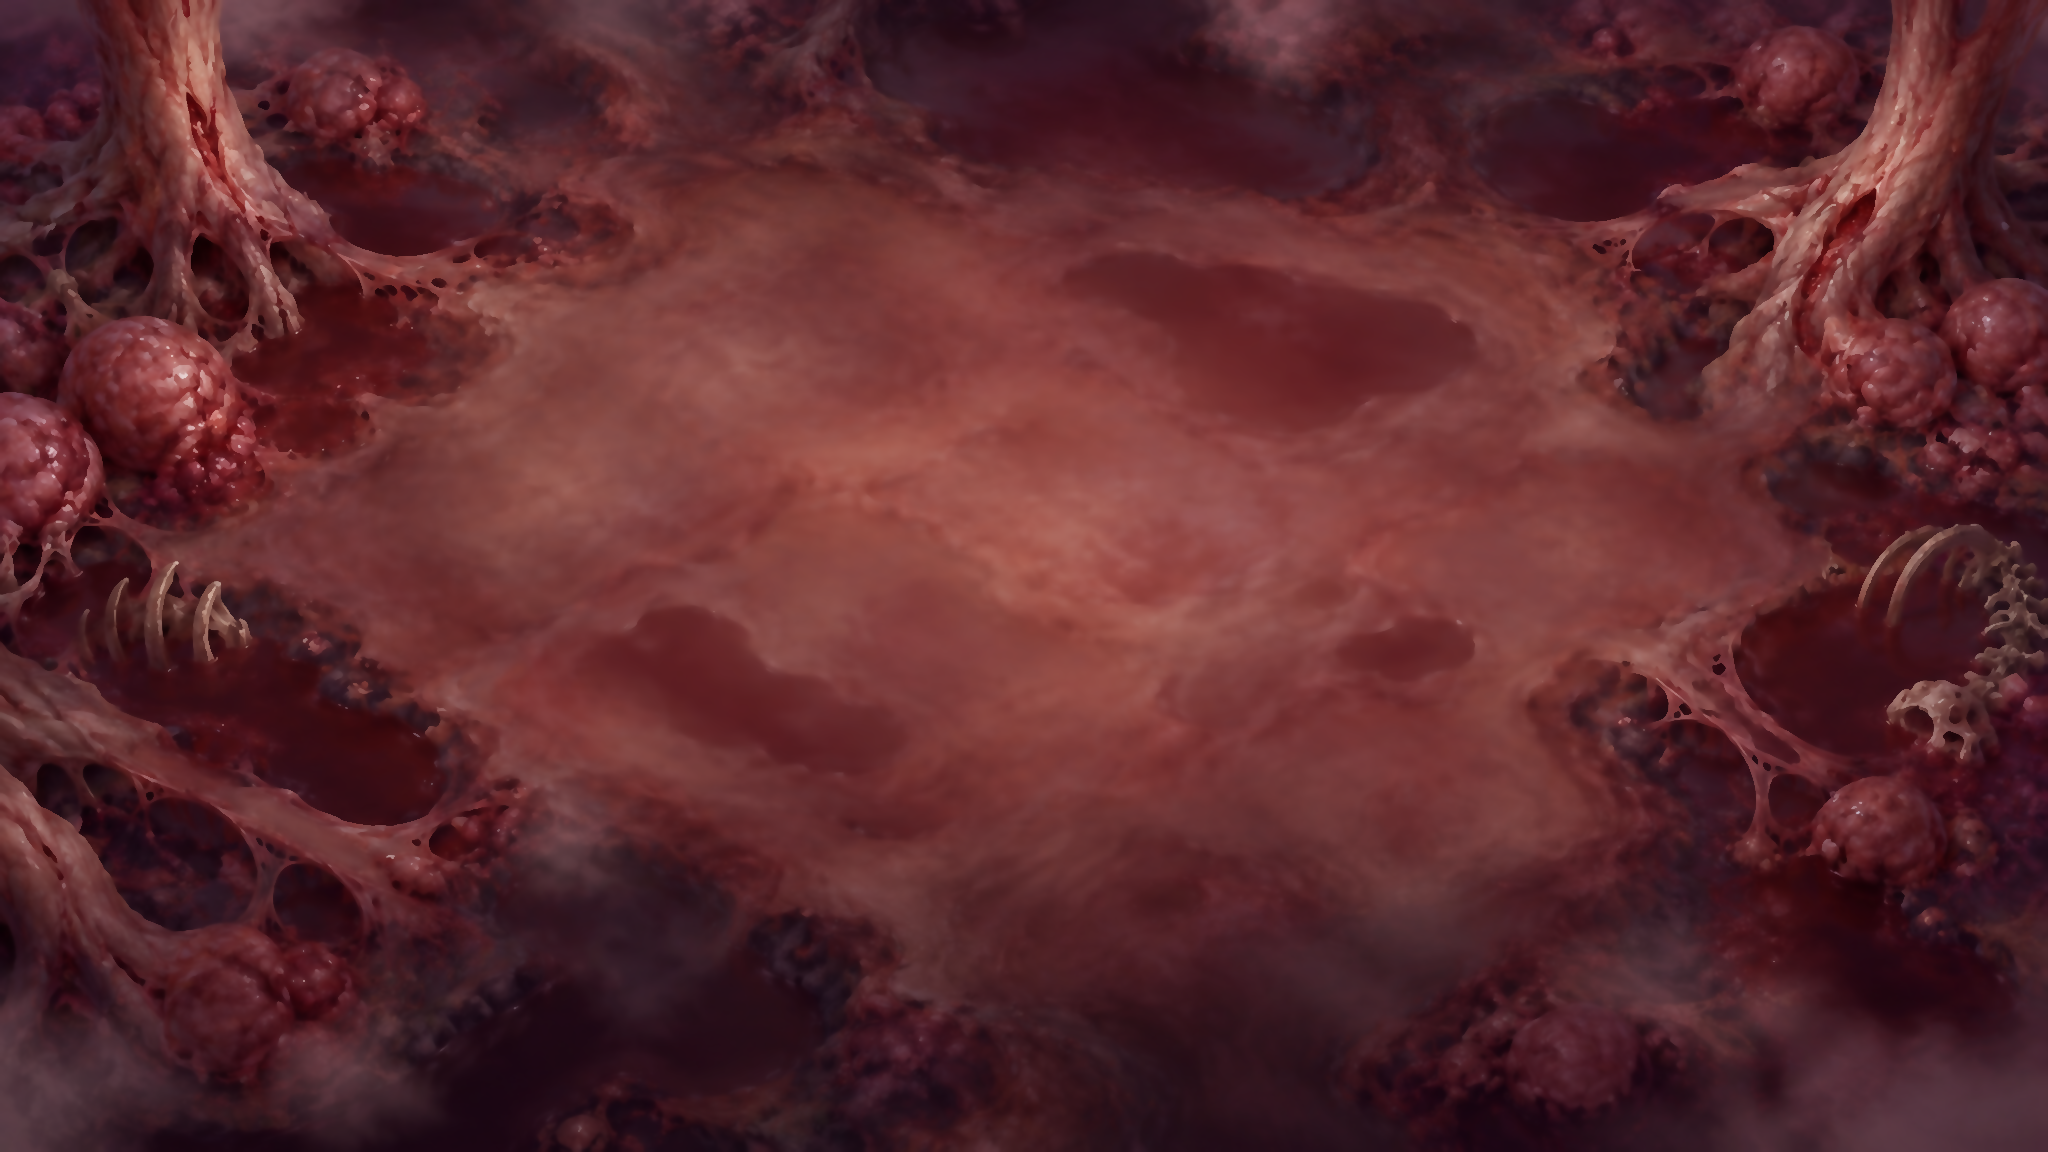
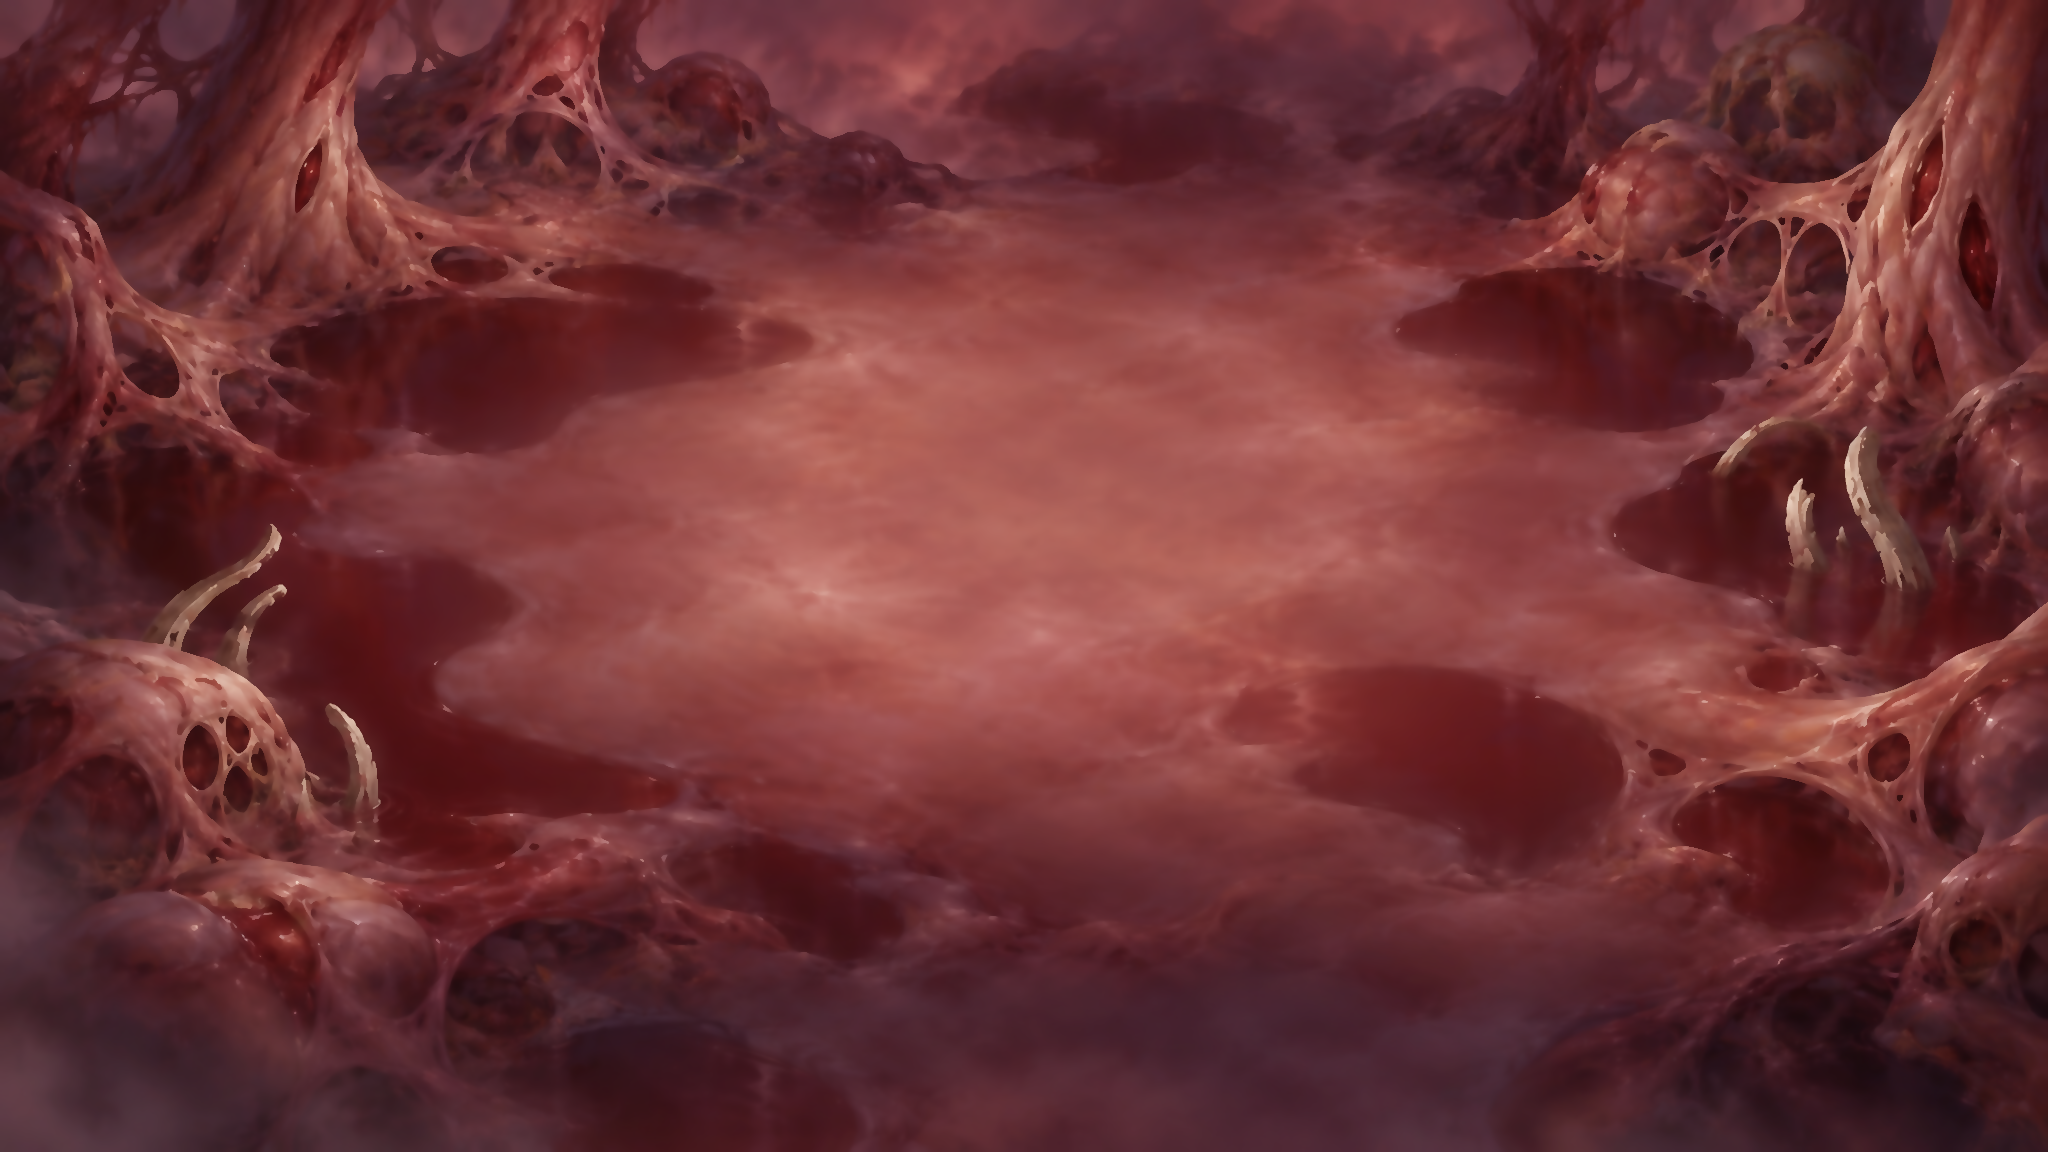
结算综合分、哥特暗黑童话风区域地图与光效
- 结算综合分（策划案 3.6）：人数×10 + （行为+条件）×10 + 信标×10 + 用时×1，越低越好；
  系数在 data/scoring.json；每关存最低分（存档 best_scores，旧档自动补齐）
- 胜利页显示综合分、新纪录 / 最佳与明细；「解锁」标题并入正文流
- 区域选关页：已通关节点名牌下显示综合分胶囊，详情状态带综合分
- 7 张区域局内底图重绘为哥特暗黑童话风（tools/region_map_post.py 降噪）
- 光效：场景压暗减半、暗角减弱、去颗粒与色差、单位光调整；格线加深色描边，障碍标志改深梅色

GUT 366 项：362 通过 / 0 失败 / 4 pending；validate_data 通过

diff --git a/AI版本/docs/CHANGELOG.md b/AI版本/docs/CHANGELOG.md
@@ -94,3 +94,4 @@
 | 2026-10-18 | tests/integration/test_levels_headless.gd、data/levels/level_02.json（verification._note_20261018） | level_02 倒置反例站位：攻击形态 (3,2)/(3,4) → (3,1)/(3,5)（承伤 (1,3) 不变），恢复「倒置会掉人」断言（撤掉上一行加的 pending） | 用户 2026-10-18：改反例站位、不调数值 | 倒置站位 WIN 13.67s、己方阵亡 2（掉人断言通过）；仍胜利 → 照旧 Q-016 pending；推荐站位无阵亡 |
 | 2026-10-18 | data/levels/level_c05.json | hints[2] 与 verification.expected_win 改为两名基础形态都「追击攻击·最远」先点祭司、再回头打守卫（hints 仍 4 条）；expected_fail 改为「基础 + 快速形态任何站位都输」；alternatives 改为「两名基础形态按最近打也能赢（约 9s）」 | 用户 2026-10-18：c05 提示文本与新推荐解一致 | validate 通过；实测两名基础形态按「最近」也 WIN 9.2s（「最远」8.4s），本关不再强制「先打最远」——待策划判断是否要收紧 |
 | 2026-10-18 | data/teaching.json（level_c03）、scripts/sim/movement.gd | 第 3 关引导：第二个信标区域（只够得着人偶·乙）改为「两具人偶中间」(10,4) / (11,3) 两格，承伤形态停在那里射程 2 同时够到甲乙；「追击」步骤改为补充说明。移动：沿信标 once / 沿路线走完时停在终点格正中（原先停在到点容差 0.05 格内，正好卡在射程边上时够不着） | 用户 2026-10-18「第三关按照教程走无法获胜」：原引导的最后一个信标在乙旁边，甲在射程外，不加追击永远打不完 | 照引导走（预填指令、不加追击）WIN；第一块区域 6 格 × 终点 2 格全部 WIN；GUT 359 通过 / 0 失败 / 4 pending；validate_data 通过 |
+| 2026-10-18 | data/scoring.json（新）、assets/themes/palette.gd、scenes/battle/battle_root.tscn、scripts/battle/unit_view.gd | **结算综合分**：综合分 = 人数×10 ＋（行为＋条件）×10 ＋ 信标×10 ＋ 用时（游戏内秒）×1，越低越好，每关存最低分（存档新增 best_scores，旧档自动补齐）；胜利页显示综合分与明细，区域选关页已通关节点下显示综合分。**光效**：CanvasModulate #5A4A5E → #BBAFC2，暗角 0.35 → 0.28，颗粒 0.05 → 0，色差 0.002 → 0，单位光 0.5 → 0.32；7 张区域局内底图重绘为哥特暗黑童话风 | 用户 2026-10-18：按策划案 3.6 配分数（系数暂定，1 名单位 ≈ 1 条指令要素 ≈ 1 个信标 ≈ 10 秒，与详细设计 08 的 D-14 一致）；场景不要过于黑暗压抑，但保留哥特与恐怖氛围 | GUT 366：362 通过 / 0 失败 / 4 pending；validate_data 通过；7 区域实机截图见 docs/screenshots/region_maps_20261018/gothic_ingame_contact.png |
